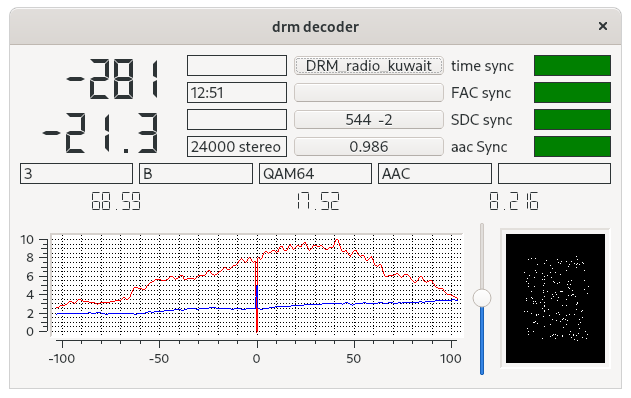
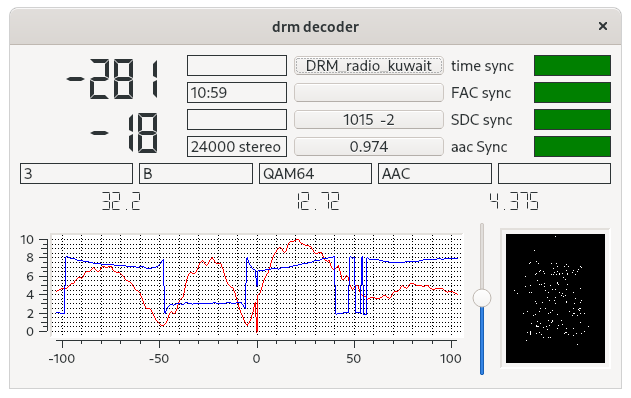
README

diff --git a/devices/hackrf-handler/hackrf-handler.cpp b/devices/hackrf-handler/hackrf-handler.cpp
@@ -4,19 +4,19 @@
  *    Jan van Katwijk (J.vanKatwijk@gmail.com)
  *    Lazy Chair Computing
  *
- *    This file is part of drm2
+ *    This file is part of drm-receiver
  *
- *    swradio-8 is free software; you can redistribute it and/or modify
+ *    drm-receiver is free software; you can redistribute it and/or modify
  *    it under the terms of the GNU General Public License as published by
  *    the Free Software Foundation version 2 of the License.
  *
- *    swradio-8 is distributed in the hope that it will be useful,
+ *    drm-receiver is distributed in the hope that it will be useful,
  *    but WITHOUT ANY WARRANTY; without even the implied warranty of
  *    MERCHANTABILITY or FITNESS FOR A PARTICULAR PURPOSE.  See the
  *    GNU General Public License for more details.
  *
  *    You should have received a copy of the GNU General Public License
- *    along with swradio-8 if not, write to the Free Software
+ *    along with drm-receiver, if not, write to the Free Software
  *    Foundation, Inc., 59 Temple Place, Suite 330, Boston, MA  02111-1307  USA
  */
 
@@ -142,13 +142,12 @@ int	i;
 	                setText (this -> hackrf_usb_board_id_name (board_id));
 	}
 
-	filter_1        = new decimatingFIR (2 * 4 + 1,
-                                             + outputRate / 2,
-                                             inputRate,
-                                             4);
-        filter_2        = new decimatingFIR (2 * 8 + 1,
-                                             outputRate / 2,
-                                             inputRate / 4, 8);
+	filter_1	= make_unique<decimatingFIR> (decimatingFIR (2 * 4 + 1,
+                                                     + outputRate / 2,
+                                                     inputRate, 4));
+        filter_2        = make_unique<decimatingFIR> (decimatingFIR (2 * 8 + 1,
+                                                      outputRate / 2,
+                                                      inputRate / 4, 8));
 	running. store (false);
 }
 
@@ -162,8 +161,6 @@ int	i;
 	hackrfSettings	-> endGroup ();
 	this	-> hackrf_close (theDevice);
 	this	-> hackrf_exit ();
-	delete	filter_1;
-	delete	filter_2;
 }
 //
 

diff --git a/devices/sdrplay-handler/sdrplay-handler.h b/devices/sdrplay-handler/sdrplay-handler.h
@@ -4,20 +4,20 @@
  *    Jan van Katwijk (J.vanKatwijk@gmail.com)
  *    Lazy Chair Computing
  *
- *    This file is part of the DRM-2
+ *    This file is part of the DRM-receiver
  *
- *    DRM-2 is free software; you can redistribute it and/or modify
+ *    drm receiver is free software; you can redistribute it and/or modify
  *    it under the terms of the GNU General Public License as published by
  *    the Free Software Foundation; either version 2 of the License, or
  *    (at your option) any later version.
  *
- *    DRM-2 is distributed in the hope that it will be useful,
+ *    drm receiver is distributed in the hope that it will be useful,
  *    but WITHOUT ANY WARRANTY; without even the implied warranty of
  *    MERCHANTABILITY or FITNESS FOR A PARTICULAR PURPOSE.  See the
  *    GNU General Public License for more details.
  *
  *    You should have received a copy of the GNU General Public License
- *    along with DRM-2; if not, write to the Free Software
+ *    along with drm-receiver; if not, write to the Free Software
  *    Foundation, Inc., 59 Temple Place, Suite 330, Boston, MA  02111-1307  USA
  */
 
@@ -29,6 +29,7 @@
 #include	<QSettings>
 #include	<vector>
 #include	<atomic>
+#include	<utility>
 #include	"radio-constants.h"
 #include	"ringbuffer.h"
 #include	"fir-filters.h"
@@ -116,8 +117,8 @@ public:
 	uint32_t	inputRate;
 	int32_t		outputRate;
 	void		report_dataAvailable	(void);
-	decimatingFIR	*filter_1;
-	decimatingFIR	*filter_2;
+	std::unique_ptr<decimatingFIR>	filter_1;
+	std::unique_ptr<decimatingFIR>	filter_2;
 	int		denominator;
 private:
 	QFrame		myFrame;

diff --git a/devices/filereader/filereader.h b/devices/filereader/filereader.h
@@ -4,20 +4,20 @@
  *    Jan van Katwijk (J.vanKatwijk@gmail.com)
  *    Lazy Chair Computing
  *
- *    This file is part of the DRM-2
+ *    This file is part of the DRM-receiver
  *
- *    DRM-2 is free software; you can redistribute it and/or modify
+ *    drm-receiver is free software; you can redistribute it and/or modify
  *    it under the terms of the GNU General Public License as published by
  *    the Free Software Foundation; either version 2 of the License, or
  *    (at your option) any later version.
  *
- *    DRM-2 is distributed in the hope that it will be useful,
+ *    drm-receiver is distributed in the hope that it will be useful,
  *    but WITHOUT ANY WARRANTY; without even the implied warranty of
  *    MERCHANTABILITY or FITNESS FOR A PARTICULAR PURPOSE.  See the
  *    GNU General Public License for more details.
  *
  *    You should have received a copy of the GNU General Public License
- *    along with DRM-2; if not, write to the Free Software
+ *    along with drm-receiver; if not, write to the Free Software
  *    Foundation, Inc., 59 Temple Place, Suite 330, Boston, MA  02111-1307  USA
  */
 
@@ -53,7 +53,7 @@ public:
 	bool	isOK			();
 protected:
 	int32_t		setup_Device	();
-	QFrame		*myFrame;
+	QFrame		myFrame;
 	fileHulp	*myReader;
 	QLabel		*indicator;
 	QLabel		*fileDisplay;

diff --git a/devices/filereader/filehulp.h b/devices/filereader/filehulp.h
@@ -2,22 +2,22 @@
 /*
  *    Copyright (C) 2008, 2009, 2010
  *    Jan van Katwijk (J.vanKatwijk@gmail.com)
- *    Lazy Chair Programming
+ *    Lazy Chair Computing
  *
- *    This file is part of the SDR-J.
+ *    This file is part of the drm-receiver.
  *
- *    SDR-J is free software; you can redistribute it and/or modify
+ *    drm-receiver is free software; you can redistribute it and/or modify
  *    it under the terms of the GNU General Public License as published by
  *    the Free Software Foundation; either version 2 of the License, or
  *    (at your option) any later version.
  *
- *    SDR-J is distributed in the hope that it will be useful,
+ *    drm-receiver is distributed in the hope that it will be useful,
  *    but WITHOUT ANY WARRANTY; without even the implied warranty of
  *    MERCHANTABILITY or FITNESS FOR A PARTICULAR PURPOSE.  See the
  *    GNU General Public License for more details.
  *
  *    You should have received a copy of the GNU General Public License
- *    along with SDR-J; if not, write to the Free Software
+ *    along with drm-receiver; if not, write to the Free Software
  *    Foundation, Inc., 59 Temple Place, Suite 330, Boston, MA  02111-1307  USA
  */
 

diff --git a/devices/sdrplay-handler/sdrplay-handler.cpp b/devices/sdrplay-handler/sdrplay-handler.cpp
@@ -228,13 +228,12 @@ ULONG APIkeyValue_length = 255;
 
         sdrplaySettings -> endGroup ();
 
-	filter_1	= new decimatingFIR (2 * 4 + 1,
-	                                     + outputRate / 2,
-	                                     inputRate,
-	                                     4);
-	filter_2	= new decimatingFIR (2 * 8 + 1,
-	                                     outputRate / 2,
-	                                     inputRate / 4, 8);
+	filter_1	= make_unique<decimatingFIR>(decimatingFIR (2 * 4 + 1,
+	                                             + outputRate / 2,
+	                                             inputRate, 4));
+	filter_2	= make_unique<decimatingFIR>(decimatingFIR (2 * 8 + 1,
+	                                             outputRate / 2,
+	                                             inputRate / 4, 8));
 	 
 	api_version	-> display (ver);
 	lastFrequency	= Khz (14070);
@@ -374,8 +373,6 @@ ULONG APIkeyValue_length = 255;
 	if (numofDevs > 0)
 	   my_mir_sdr_ReleaseDeviceIdx (deviceIndex);
 
-	delete filter_1;
-	delete filter_2;
 #ifdef __MINGW32__
         FreeLibrary (Handle);
 #else

diff --git a/devices/filereader/filereader.cpp b/devices/filereader/filereader.cpp
@@ -29,16 +29,16 @@
 
 	fileReader::fileReader	(RadioInterface *mr,
 	                         RingBuffer<std::complex<float>> *b,
-	                         QSettings *s) {
+	                         QSettings *s):
+	                           myFrame (nullptr) {
 	theRate		= 2000000 / 32;
-	this	-> myFrame	= new QFrame;
 	(void)s;
-	setupUi		(myFrame);
-	myFrame	-> show ();
+	setupUi		(&myFrame);
+	myFrame. show ();
 	myReader	= NULL;
 	QString	replayFile
 	              = QFileDialog::
-	                 getOpenFileName (myFrame,
+	                 getOpenFileName (nullptr,
 	                                  tr ("load file .."),
 	                                  QDir::homePath (),
 	                                  tr ("sound (*.wav)"));
@@ -62,8 +62,7 @@
 	if (myReader != NULL)
 	   delete myReader;
 	myReader	= NULL;
-	myFrame	-> hide ();
-	delete myFrame;
+	myFrame. hide ();
 }
 
 void	fileReader::handle_progressBar		(int f) {

diff --git a/devices/hackrf-handler/hackrf-handler.h b/devices/hackrf-handler/hackrf-handler.h
@@ -4,7 +4,7 @@
  *    Jan van Katwijk (J.vanKatwijk@gmail.com)
  *    Lazy Chair Computing
  *
- *    This file is part of the drm=rfeceiver
+ *    This file is part of the drm-receiver
  *
  *    drm-receiver is free software; you can redistribute it and/or modify
  *    it under the terms of the GNU General Public License as published by
@@ -28,6 +28,7 @@
 #include	<QFrame>
 #include	<QSettings>
 #include	<atomic>
+#include	<utility>
 #include	"radio-constants.h"
 #include	"ringbuffer.h"
 #include	"fir-filters.h"
@@ -91,8 +92,8 @@ public:
         int32_t         inputRate;
         int32_t         outputRate;
         void            report_dataAvailable    ();
-        decimatingFIR   *filter_1;
-        decimatingFIR   *filter_2;
+        std::unique_ptr <decimatingFIR>   filter_1;
+        std::unique_ptr <decimatingFIR>   filter_2;
 	hackrf_device	*theDevice;
 private:
 	QFrame		myFrame;

diff --git a/devices/filereader/filehulp.cpp b/devices/filereader/filehulp.cpp
@@ -291,7 +291,7 @@ int64_t	nextStop;
 	      }
 	   }
 
-	   delete []	bi;
+//	   delete []	bi;
 	   src_delete (converter);
 	   delete src_data;
 	}

diff --git a/README.md b/README.md
@@ -137,18 +137,19 @@ The decoder contains labels to show the correctness of these decoding.
 The picture of the decoder gives quite some information about the received
 and decoded signal.
 
- * at the top left, the measured frequency offset, two numbers, one for the so-called coarse offset, i.e. the number of carriers off (here -281 Hz), the second number telling the fine offset, i.e. the offset in the carrier (here -21.3 Hz)
+ * at the top left, the measured frequency offset, two numbers, one for the so-called coarse offset, i.e. the number of carriers off (here -281 Hz), the second number telling the fine offset, i.e. the offset in the carrier (here -18 Hz)
 
- * the number 12:51 gives the time (UTC) derived from the transmission
+ * the number 10:59 gives the time (UTC) derived from the transmission
 
  * 24000 stereo is the indication of the rate of the audio output
 
  * it can be seen that there is one service being transmitted (the software is able to handle 2 audio transmissions), here Radio kuwait
 
- * the numbers 544 -2 give an indication of the time offset, here it states that after 544 "words" (each 320 samples), a correction was needed with at most
+ * the numbers 1015 -2 give an indication of the time offset, here it states that after 1015 "words" (each 320 samples), a correction was needed with at most
  two samples, i.e. the next word should start 2 samples early
 
- * the number 0.986 tells that from the 1000 audio frames, 986 were correct
+ * the number 0.974 tells that from the last 1000 audio frames, 974
+cound be correctly trabnlated into sound
 
  * the labels time sync etc speak for themselves
 
@@ -160,18 +161,18 @@ The empty box then is available for text messages.
 Below this, there are 3 numbers, giving some information on the quality of
 the signal
 
- * the number 68.59 tells that the quality of the signal in which the FAC is encoded is very good (FAC data is encoded as QAM4);
+ * the number 32.2 tells that the quality of the signal in which the FAC is encoded is very good (FAC data is encoded as QAM4);
 
- * the number 17.52 tells that the quality of the signal in which the SDC is
+ * the number 12.72 tells that the quality of the signal in which the SDC is
 encoded is good (SDC data is encoded as QAM16);
 
- * the number 8.215 tells that the quality of the signal in which the audio data is encoded is fairly good (MSC data is encoded as QAM64);
+ * the number 4.375 tells that the quality of the signal in which the audio data is encoded is not very good (MSC data is encoded as QAM64);
 
 The scopes at the bottom give some visual information about the restored signal.
 The scope shows the correction that is to be applied to the incoming data
 in the frequency domain: the red line tells the correction to the amplitude,
 the blue line the correction to8 the phase. It shows that the signal here
-is fairly reasonable.
+is not all too best.
 
 The scope right gives the constellation of the restored signal. Ideally
 for QAM64, there are 64 dots evenly distributed over the screen.
